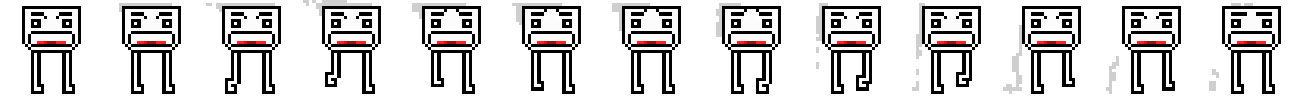
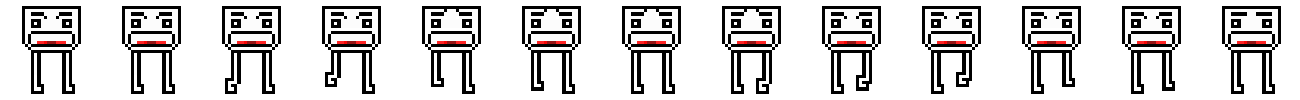
add gravity class

diff --git a/src/Game.ts b/src/Game.ts
@@ -9,70 +9,77 @@ import { Brick } from "./modules/sprites/Brick";
 import TeaManImg from './assets/tea-man.png'
 import BrickImg from './assets/brick.png'
 import { Fly } from "./modules/flyweight/Fly";
+import { Gravity } from "./modules/Gravity";
 
 export class Game{
   private sketch: p5
   private screens: Screen[]
   private player: Player | undefined
   private bricks: Brick[]
+  private gravity: Gravity
   private static SCREEN_WIDTH = 700
   private static SCREEN_HEIGHT = 700
 
   constructor(sketch: p5){
     this.sketch = sketch
     this.sketch.setup = this.setup
-    this.sketch.draw = this.draw
+    this.sketch.draw = this.loop
     this.sketch.preload = this.preload
     this.screens = [new MainScreen({
       width: percentOf(Game.SCREEN_WIDTH, 1), 
       height: percentOf(Game.SCREEN_HEIGHT, 1), 
     })]
     this.bricks = []
+    this.gravity = new Gravity(5)
   }
   
-  keyPressed = () => {
+  input = (): void => {
     if(this.sketch.keyIsDown(this.sketch.RIGHT_ARROW)){
       if(this.player){
         this.player.walk_right()
-        this.player.currentFrame += 1
       }
     }
     if(this.sketch.keyIsDown(this.sketch.LEFT_ARROW)){
       if(this.player){
         this.player.walk_left()
-        this.player.currentFrame -= 1
       }
     }
     if(this.sketch.keyIsDown(this.sketch.UP_ARROW)){
       if(this.player && this.player.onFloor){
-        this.player.yAceleration = 10
-        this.player.onFloor = false
+        this.player.jump()
       }
     }
   }
 
-  preload = () => {
+  preload = (): void => {
     const brickFly = new Fly(BrickImg, this.sketch)
     const playerFly = new Fly(TeaManImg, this.sketch)
-  
-    for(let currentBrickIndex = 0; currentBrickIndex < 22; currentBrickIndex++){
+    this.player = new Player(
+      { x: 0, y: percentOf(Game.SCREEN_HEIGHT, 1) - 145 }, 
+      { width: 100, height: 100 }, 
+      playerFly
+    )
+    for(let currentBrickIndex = 0; currentBrickIndex < 14; currentBrickIndex++){
       this.bricks.push(
         new Brick(
-          { x: 32 * currentBrickIndex, y: percentOf(Game.SCREEN_HEIGHT, 0.9) }, 
-          { width: 32, height: 32 }, 
+          { x: 50 * currentBrickIndex, y: percentOf(Game.SCREEN_HEIGHT, 1) - 50 }, 
+          { width: 50, height: 50 }, 
           brickFly
         )
       )
     }
-    this.player = new Player({ x: 0, y: percentOf(Game.SCREEN_HEIGHT, 0.9) - 95 }, { width: 100, height: 100 }, playerFly)
   }
-
-  setup = () => {
+  
+  setup = (): void => {
     this.sketch.createCanvas(Game.SCREEN_WIDTH, Game.SCREEN_HEIGHT)
   }
 
-  draw = () => {
-    this.keyPressed()
+  process = (): void => {
+    this.player?.process()
+  }
+
+  draw = (): void => {
+    if(this.player) this.gravity.apply(this.player)
     for(const screen of this.screens){
       screen.draw(this.sketch)
     }
@@ -80,5 +87,11 @@ export class Game{
       brick.draw(this.sketch)
     }
     this.player?.draw(this.sketch)
+  }
+
+  loop = (): void => {
+    this.input()
+    this.process()
+    this.draw()
   }
 } 

diff --git a/src/modules/sprites/Player.ts b/src/modules/sprites/Player.ts
@@ -1,64 +1,49 @@
 import { Coordinate } from "../Coordinate";
 import { Dimension } from "../Dimension";
+import { MobileElement } from "../Element";
 import { Fly } from "../flyweight/Fly";
+import { Speed } from "../Speed";
 import { Sprite } from "./Sprite";
 
-export class Player extends Sprite{
+export class Player extends Sprite implements MobileElement{
   currentFrame: number
-  gravity: number
-  yStart: number
-  ySpeed: number
-  yAceleration: number
   onFloor: boolean
+  startCoordinate: Coordinate
+  xSpeed: Speed
+  ySpeed: Speed
 
   constructor(coordinate: Coordinate, dimension: Dimension, fly: Fly){
-    super(coordinate, dimension, fly)
+    super(coordinate, dimension, fly, 1, 13, 13)
     this.currentFrame = 1
-    this.gravity = 1
-    this.yStart = coordinate.y
-    this.ySpeed = 1
-    this.yAceleration = 0
+    this.startCoordinate = { x: coordinate.x, y: coordinate.y }
+    this.xSpeed = { velocity: 0, aceleration: 0 }
+    this.ySpeed = { velocity: 1, aceleration: 1 }
     this.onFloor = true
   }
 
-  walk_right(){
+  walk_right(): void{
     this.coordinate.x += 1
+    this.nextFrame()
   }
-
-  walk_left(){
+  
+  walk_left(): void{
     this.coordinate.x += -1
+    this.nextFrame()
   }
 
-  draw(sketch: import("p5")): void {
-    if(this.currentFrame > 12){
-      this.currentFrame = 1
-    }else if(this.currentFrame < 1){
-      this.currentFrame = 12
-    }
+  jump(): void{
+    this.ySpeed.aceleration = 20
+    this.onFloor = false
+  }
 
-    if(this.yAceleration > 0){
-      this.yAceleration += -1
+  process(): void{
+    if(this.ySpeed.aceleration > 0){
+      this.ySpeed.aceleration += -1
+    }else if(!this.onFloor){
+      this.ySpeed.aceleration = 0
     }
-    
-    this.coordinate.y -= this.ySpeed * this.yAceleration 
-    
-    if(this.coordinate.y < this.yStart ){
-      this.coordinate.y += this.gravity
-    }
-    
-    this.onFloor = this.coordinate.y === this.yStart
-
-    sketch.image(
-      this.fly.getImage(), 
-      this.coordinate.x, 
-      this.coordinate.y, 
-      this.dimension.width,
-      this.dimension.height,
-      this.currentFrame * this.dimension.width,
-      0,
-      this.dimension.width,
-      this.dimension.height
-    )
+    this.coordinate.y -= this.ySpeed.velocity * this.ySpeed.aceleration 
+    this.onFloor = this.coordinate.y >= this.startCoordinate.y
   }
 
 }

diff --git a/src/modules/sprites/Sprite.ts b/src/modules/sprites/Sprite.ts
@@ -1,13 +1,65 @@
 import { Coordinate } from "../Coordinate";
 import { Dimension } from "../Dimension";
-import { ElementDrawable } from "../Element";
+import { DrawableElement } from "../Element";
 import { Fly } from "../flyweight/Fly";
 
-export class Sprite implements ElementDrawable{
-  constructor(public coordinate: Coordinate, public dimension: Dimension, public fly: Fly){}
+export class Sprite implements DrawableElement{
+  private currentRow: number
+  private currentColumn: number
+
+  constructor(
+    public coordinate: Coordinate, 
+    public dimension: Dimension, 
+    public fly: Fly,
+    public rows: number,
+    public columns: number,
+    public frames: number
+  ){
+    this.currentRow = 1;
+    this.currentColumn = 1;
+  }
+
+  nextFrame(): void{
+    const currentFrames = (this.currentRow - 1 * this.columns) + this.currentColumn
+    if(currentFrames === this.frames){
+      this.currentColumn = 1
+      this.currentRow = 1
+      return
+    }
+    if(this.currentColumn === this.columns){
+      this.currentColumn = 1
+      
+      if(this.currentRow === this.rows){
+        this.currentRow = 1
+      }else{
+        this.currentRow += 1
+      }
+    }else{
+      this.currentColumn += 1
+    }
+  }
+
+  isColliding(target: Sprite): boolean{
+    return (
+      this.coordinate.x + this.dimension.width >= target.coordinate.x &&
+      this.coordinate.x <= target.coordinate.x + target.dimension.width &&
+      this.coordinate.y + this.dimension.height >= target.coordinate.y &&
+      this.coordinate.y <= target.coordinate.y + target.dimension.height
+    )
+  }
 
   draw(sketch: import("p5")): void {
-    sketch.image(this.fly.getImage(), this.coordinate.x, this.coordinate.y)
+    sketch.image(
+      this.fly.getImage(), 
+      this.coordinate.x, 
+      this.coordinate.y, 
+      this.dimension.width,
+      this.dimension.height,
+      (this.currentColumn - 1) * this.dimension.width,
+      (this.currentRow - 1) * this.dimension.height,
+      this.dimension.width,
+      this.dimension.height
+    )
   }
 
 }

diff --git a/src/modules/Element.ts b/src/modules/Element.ts
@@ -1,8 +1,18 @@
 import p5 from "p5";
+import { Coordinate } from "./Coordinate";
+import { Dimension } from "./Dimension";
+import { Speed } from "./Speed";
 
-export interface Element{
+export interface Element{}
+
+export interface DrawableElement extends Element{
+  draw(sketch: p5): void
 }
 
-export interface ElementDrawable extends Element{
-  draw(sketch: p5): void
+export interface MobileElement extends DrawableElement{
+  xSpeed: Speed
+  ySpeed: Speed
+  coordinate: Coordinate
+  startCoordinate: Coordinate
+  dimension: Dimension
 }

diff --git a/src/modules/screens/Screen.ts b/src/modules/screens/Screen.ts
@@ -1,8 +1,8 @@
 import p5 from "p5";
 import { Dimension } from "../Dimension";
-import { ElementDrawable } from "../Element";
+import { DrawableElement } from "../Element";
 
-export abstract class Screen implements ElementDrawable{
+export abstract class Screen implements DrawableElement{
   dimension: Dimension
 
   constructor(dimension: Dimension){

diff --git a/src/modules/Gravity.ts b/src/modules/Gravity.ts
@@ -1,0 +1,11 @@
+import { MobileElement } from "./Element";
+
+export class Gravity{
+  constructor(public value: number){}
+
+  apply(mobileElement: MobileElement): void{
+    if(mobileElement.startCoordinate.y > mobileElement.coordinate.y){
+      mobileElement.coordinate.y += this.value
+    }
+  }
+}

diff --git a/src/modules/sprites/Brick.ts b/src/modules/sprites/Brick.ts
@@ -5,6 +5,6 @@ import { Sprite } from "./Sprite";
 
 export class Brick extends Sprite{
   constructor(coordinate: Coordinate, dimension: Dimension, fly: Fly){
-    super(coordinate, dimension, fly)
+    super(coordinate, dimension, fly, 1, 1, 1)
   }
 }

diff --git a/src/modules/Speed.ts b/src/modules/Speed.ts
@@ -1,0 +1,4 @@
+export interface Speed{
+  velocity: number,
+  aceleration: number
+}
